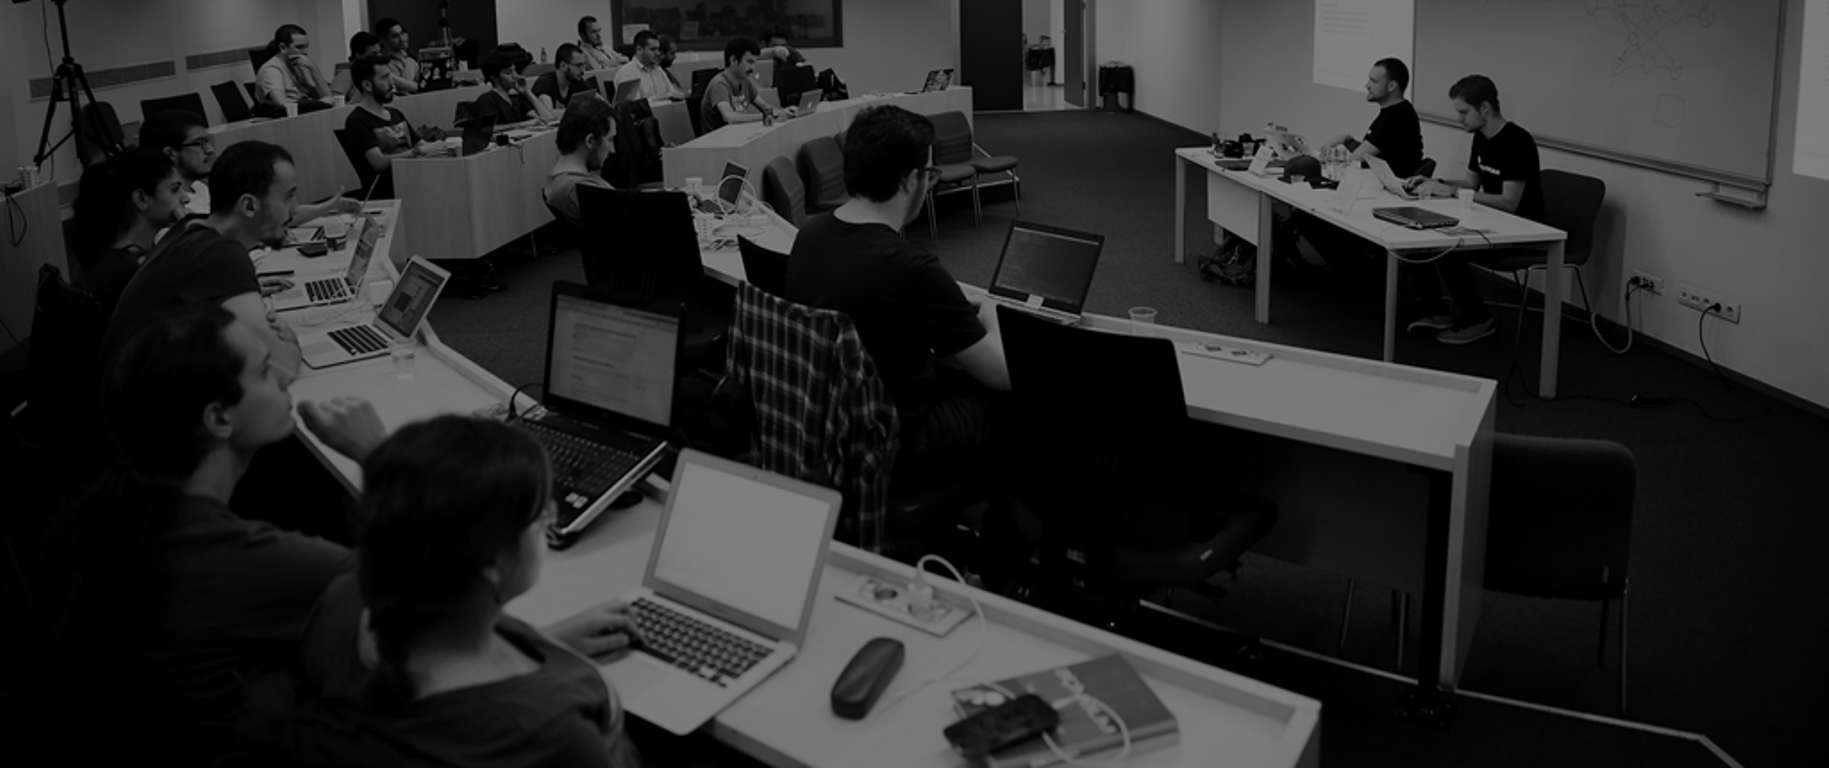
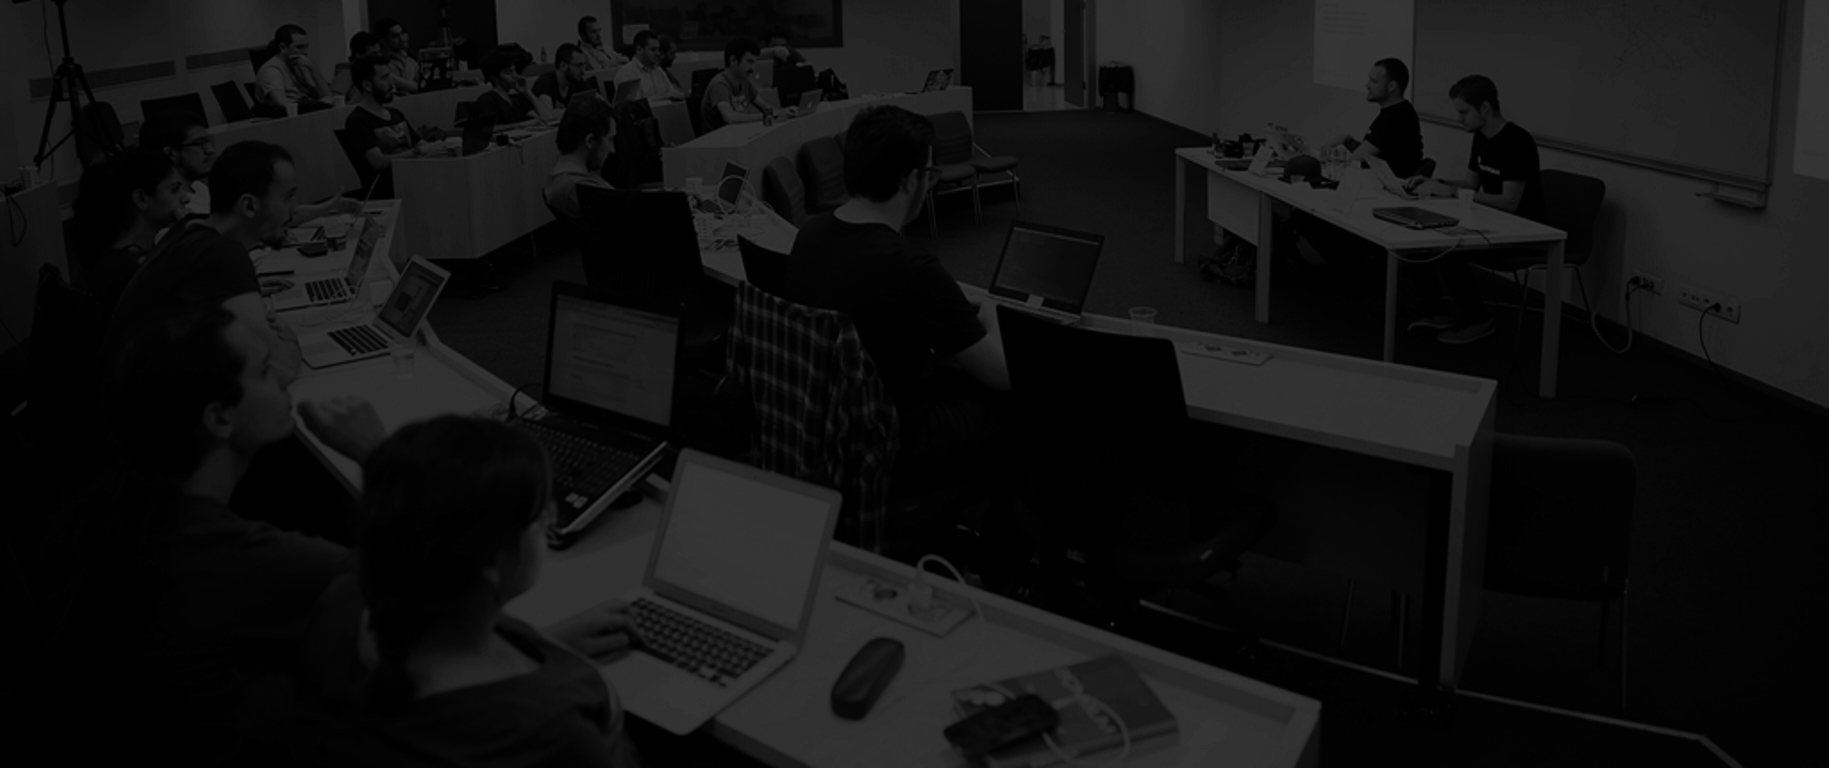
initial commit

diff --git a/partials/about.html b/partials/about.html
@@ -4,83 +4,108 @@
         <p>
             Hi, I'm Tarun Sharma.
         </p>
+
+
         <p>
-            I'm a Application Developer for Team Detroit and formerly a web applications developer for The University of Michigan and the Senior Developer at <a target="_blank" href="http://qltd.com">Q LTD</a>&nbsp;in Ann Arbor, MI. I also do freelance web design and development for projects that I find interesting, challenging or exciting, and give private training or consulting in various web topics. &nbsp;In 2012, I created <a target="_blank" href="http://www.youtube.com/user/LevelUpTuts/featured">Level Up Tuts</a>&nbsp;with web developer <a target="_blank" href="http://benschaaf.com/">Ben Schaaf</a>. With Level Up Tutorials I have taken our knowledge of web technologies to YouTube to provide free training to developers looking to learn something new. I've also created premium tutorial packages for <a target="_blank" href="https://www.packtpub.com/getting-started-with-magento/video">Packt Publishing</a>.
-        </p>
-        <p>
-            I also enjoy <a target="_blank" href="http://youtu.be/Zcoj4Zfj6_k?t=1m34s">bboying</a> also known as breakdancing, and have been dancing for over 8 years doing shows for professional NFL and NBA teams. I'm inspired by a hot cup of green tea, excellent music, and Shaw Bros. kung fu movies.
-        </p>
-        <p>
-            Please <a href="/#contact">contact me</a> if you would like to work on a project together, or just want to chat.
-        </p>
-    </div>
+            I'm J2EE Enterprise application developer ,working on Enterprise and open source Technologies
+            <a href="">J2EE web frameworks , Spring , Spring MVC , Struts, Hibernate, Web service Jax-WS, Jax-RS </a>and having experience of working Enterprise SOA architecture and different tools from IBM and Oracle. Currently working with JavaScript framework Angular Node js and exploring development of enterprise apps in Android. I am passionate MEAN- Full Stack Javascript developer using <a href="">MongoDB, ExpressJS, NodeJS, AngularJS <a/>and also doing mobile application development.
+        </a>
+    </p>
 
-        <div class="resume">
-            <span class="fakebuttons"></span>
+    <p>
+        I have taken our knowledge of web technologies to YouTube to provide free training to developers looking to learn something new. I've also created premium tutorial packages for <a target="_blank" href="">Packt Publishing</a>.
 
-            <div class="resume-inside">
+    </p>
+    
+       <p> <a href="">Early Life</a></p>
+                            <p>Born on August July 1990 and living with my family in Jaipur Rajasthan India </p>
+                            <p><a href="">School Days</a></p>
+                            <p>Attended preparatory, elementary, and high-school in a competitive school (MHS jaipur) then went to college at 
+                                the University SKIT Jaipur and graduated with Bachelor's Degree in Computer Science Engineering.</p>
+                               
+                                       <p> <a href="" class="list-group-item-heading">programming</a></p>
+                                        <p class="list-group-item-text">This passion actually drives me in many different directions. When i work for any development 
+                                            task it feels like i am going to build something smart and something different which is something new for this world , I am 
+                                            developer and passionate about learning latest technologies and also provide learning to others on different technologies</p>
+
+                                        <p href="#" class="list-group-item">
+                                            <p><a href="" class="list-group-item-heading">music</a>
+                                            <p class="list-group-item-text">It gives me fluid when i'm dehydrated by constant work, stress, and noisy environment. it also 
+                                                gives me way to express my self in a different way and in a different tone. i play guitar.</p>
+                                            </p>
+                                                              
+                     
+                            
+                                <p>
+                                    Please <a href="/#contact">contact me</a> if you would like to work on a project together, or just want to chat.
+                                </p>
+                            </div>
+
+                            <div class="resume">
+                                <span class="fakebuttons"></span>
+
+                                <div class="resume-inside">
 
 
-                <h3>/* --Resume-- */</h3>
+                                    <h3>/* --Resume-- */</h3>
 
-                <h4>/* SUMMARY OF QUALIFICATIONS */</h4>
-                <ul>
-                    <li>Received a Bachelors degree in the Fine Arts at the University of Michigan’s Media Arts program.</li>
-                    <li>Excellent organization, self-motivation, and problem-solving skills.</li>
-                    <li>Created and runs a popular Youtube coding education channel with over 700 videos, 8.5million views &amp; 85k subscribers.</li>
-                    <li>Creative, strong communication skills and consistently meets deadlines.</li>
-                    <li>Passionate about web development and new technologies.</li>
-                </ul>
+                                    <h4>/* SUMMARY OF QUALIFICATIONS */</h4>
+                                    <ul>
+                                        <li>Received a Bachelors degree in the computer science at the Technical University Rajasthan .</li>
+                                        <li>Excellent organization, self-motivation, and problem-solving skills.</li>
+                                        <li>Created and runs a popular Youtube coding education channel with over 700 videos, 8.5million views &amp; 85k subscribers.</li>
+                                        <li>Creative, strong communication skills and consistently meets deadlines.</li>
+                                        <li>Passionate about web development and new technologies.</li>
+                                    </ul>
 
-                <h4>/* Experience */</h4>
+                                    <h4>/* Experience */</h4>
 
-                <h5>// SENIOR FRONT-END DEVELOPER, Team Detroit - DEARBORN, MI</h5>
-                <span class="time">// MAY 2014 - PRESENT</span>
-                <ul>
-                    <li>Rapidly prototyped designs for the design process and user testing.</li>
-                    <li>Utilized AngularJS to build a component library for Ford.com Global Redesign.</li>
-                    <li>Met with Ford executives to display functionality of design experiments.</li>
-                    <li>Worked on a team of developers to coordinate and develop compoent library.</li>
-                    <li>Built resposive web applications to display potential design and interaction experiences.</li>
-                </ul>
+                                    <h5>// Application Developer UnitedhHealth Group Gurgaon</h5>
+                                    <span class="time">// Nov 2014 - PRESENT</span>
+                                    <ul>
+                                    <li>Supporting Front UI based on angular JS and front end Ajax Spring MVC calls.</li>
+                                        <li> Developing and supporting for the development of spring and Hibernate related backend work.</li>
+                                        <li> Worked on several web services being used in application for processing client request and processing them with MUEL ESB.</li>
+                                        <li>Rapidly prototyped designs for the design process and user testing.</li>
+                                        <li>Utilized AngularJS to build a component library for Ford.com Global Redesign.</li>
+                                        <li>Met with Ford executives to display functionality of design experiments.</li>
+                                        <li>Worked on a team of developers to coordinate and develop compoent library.</li>
+                                        <li>Built resposive web applications to display potential design and interaction experiences.</li>
+                                    </ul>
 
-                <h5>// OWNER, Level Up Tuts - ANN ARBOR, MI</h5>
-                <span class="time">// MARCH 2012 - PRESENT</span>
-                <ul>
-                    <li>Wrote, produced and recorded over 700 popular tutorial videos on various topics for Level Up Tuts (www.youtube.com/user/LevelUpTuts) with over 8,550,000 views.</li>
-                    <li>Designed websites, interfaces, and layouts to fit clients’ desires including developing responsive layouts to enhance the experience on mobile devices.</li>
-                    <li>Consulted on large scale development projects.</li>
-                    <li>Provided dedicated training on coding practices and content management systems.</li>
-                    <li>Wrote, produced and recorded commercial video tutorial series for Envato and Packt Publishing.</li>
-                </ul>
+                                    <h5>// Owner, Gnenext Training - Delhi India</h5>
+                                    <span class="time">// MARCH 2012 - PRESENT</span>
+                                    <ul>
+                                        <li>Wrote, produced and recorded over 300 popular tutorial videos on various topics for Level Up Tuts (https://www.youtube.com/channel/UCS1NeZF0Or2E1RAV9hQJz3g) with over 1,550,00 views.</li>
+                                        <li>Designed websites, interfaces, and layouts to fit clients’ desires including developing responsive layouts to enhance the experience on mobile devices.</li>
+                                        <li>Consulted on large scale development projects.</li>
+                                        <li>Provided dedicated training on coding practices and content management systems.</li>
+                                        <li>Wrote, produced and recorded commercial video tutorial series for Packt Publishing.</li>
+                                    </ul>
 
-                <h5>// WEB APPLICATIONS DEVELOPER, UM Creative - ANN ARBOR, MI</h5>
-                <span class="time">// OCT  2013 - MAY 2014</span>
-                <ul>
-                    <li>Developed single page applications using Angular.js or Backbone.js.</li>
-                    <li>Maintained and built websites for secure University servers.</li>
-                    <li>Took initiative on internal projects to advance direction of department.</li>
-                    <li>Tested and troubleshot slow application speeds as well as slow front end load times on existing websites.</li>
-                    <li>Built responsive, CMS based websites with rapid turnaround.</li>
-                </ul>
+                                    <h5>// Java Application Developer, Amdocs DVCI Delhi</h5>
+                                    <span class="time">// july 2012 - Nov 2014</span>
+                                    <ul>
+                                        <li>Supported enterprise application framework SOA based application running on web services</li>
+                                        <li>Developed and supported Fusion and MQ based Queue framework for supporting clients request and for Bill Load in IBM DB2 servers.</li>
+                                        <li>Worked with Business transaction processing in backend  Being Done with EJB-2.0.</li>
+                                        <li>Worked on several web services being used in application for processing client request which are based on JAX-RPC/WS and being used with asynchronous and synchronous request through MQ and ATT n T Fusion queues.</li>
+                                        <li>Worked with major release and took all responsibilities including communication with clients and provide them successful deployments.</li>
+                                    </ul>
 
-                <h5>// SENIOR DEVELOPER, Q LTD - ANN ARBOR, MI</h5>
-                <span class="time">// MARCH 2011 - OCT 2013</span>
-                <ul>
-                    <li>Built large, medium, and small scale websites from the ground up using appropriate content management systems (Drupal, Wordpress, Expression Engine, Magento).</li>
-                    <li>Utilized latest HTML5 and CSS3 technologies to build semantically correct and visually interesting responsive designs.</li>
-                    <li>Created interactive elements with custom JavaScript and Jquery.</li>
-                    <li>Worked frequently with clients to train, assist, and troubleshoot their websites.</li>
-                    <li>Used Sass, Compass, and Coffee Script to more effectively write clean, fast, and easy to read code.</li>
-                </ul>
+                                    <h5>// Application Developer, IBM Lab</h5>
+                                    <span class="time">// MARCH 2010 - july 2012</span>
+                                    <ul>
+                                        <li>Worked on developing Different project based on J2EE frameworks and technologies.</li>
+                                        <li>Worked on creating Java Web Application using JSF framework which can be used for any organization for biometric authentication/Card punch and different module related to employee attendance management </li>
+                                        <li>Developed “Ecops” , “Indian-Wildlife “project for TGMC IBM challenge during 2010-12 based on J2EE, JSF, JPA, DB2 server.</li>
+                                        <li>All application developed Using IBM Rational technologies with DB2 as DB serve</li>
+                                       
+                                    </ul>
 
-                <h4>/* EDUCATION */</h4>
-                <ul>
-                    <li>University of Michigan - Media Arts Bachelors of the Arts Spring 2008</li>
-                </ul>
-            </div>
-        </div>
-        <p class="res-download">
-            <a class="btn download" href="media/sharma.pdf">Download Resume PDF</a>
-        </p>
-    </main>
+                                </div>
+                            </div>
+                            <p class="res-download">
+                                <a class="btn download" href="media/sharma.pdf">Download Resume PDF</a>
+                            </p>
+                        </main>

diff --git a/partials/projects.html b/partials/projects.html
@@ -6,45 +6,52 @@
 
         <ul class="project-list">
             <li>
-                <h3 class="project-title"><a target="_blank" href="http://www.ford.com/">Ford.com Global UX</a></h3>
+                <h3 class="project-title"><a target="_blank" href="http://www.Allakarte.com/">Allakarte.com UX</a></h3>
                 <p>
-                    Design Prototypes and Interactive Digital Styleguide for the Ford.com Global Redesign:<br>
-                    Built With: Angular, Sass
+                    Design Prototypes and Interactive  Design for the Allakarte.com , its has same kind of business what airbnb  have.<br>
+                    Built With: Angular, Node Material design with responsive.
                 </p>
             </li>
             <li>
-                <h3 class="project-title"><a target="_blank" href="http://store.leveluptutorials.com/">Level Up Tutorials Store</a></h3>
+                <h3 class="project-title"><a target="_blank" href="">Integrated Eligibility Portal US-Health Care</a></h3>
                 <p>
-                    A Physical &amp; Digital Products Ecommerce Site for Level Up Tutorials:<br>
-                    Built With: Meteor, React, Stylus
+                    Developing Integrated Eligibility project for SE Region USA for Health care support for US citizen,Its integrated application to determine the Eligibility of citizen  for different Health care  program running for state government
+                     while working with <a target="_blank" href="">UnitedHealth Group</a><br>
+                     Client :-   <a target="_blank" href="">US State Government</a><br>
+                    Built With: Angular, Bootstrap ,Spring Hibernate.
+                </p>
+            </li>
+
+            <li><br/>
+                <h3 class="project-title"><a target="_blank" href="">Billing System BVA Project</a></h3>
+                <p>
+                    Developed and supported of CBS-Billing  Critical  ATT & T application for south East billing tool being used by more than 40,000 Customer care representative in South East Region USA while working with  <a target="_blank" href="">Amdocs India</a> <br> 
+                    Client :-   <a target="_blank" href="">At & t</a><br>
+                    Built With: Java Web Services, Java, J2EE 
+                </p>
+            </li>
+<li>
+                <h3 class="project-title"><a target="_blank" href="">Learning Portal</a></h3>
+                <p>Built for: <a target="_blank" href="">Amdocs DVCI </a><br>Built With: Java J2EE with Spring Hibernate </p>
+            </li>
+            <li>
+                <h3 class="project-title"><a target="_blank" href=""> Training Youtube Channel</a></h3>
+                <p>
+                    200+ Web Dev Tutorials on: <a target="_blank" href="https://www.youtube.com/channel/UCS1NeZF0Or2E1RAV9hQJz3g">Youtube</a><br>Channel for Front end development and java Technologies
                 </p>
             </li>
             <li>
-                <h3 class="project-title"><a target="_blank" href="http://leveluptuts.com/">Level Up Tutorials</a></h3>
-                <p>
-                    700+ Web Dev Tutorials on: <a target="_blank" href="https://www.youtube.com/channel/UCyU5wkjgQYGRB0hIHMwm2Sg">Youtube</a><br>Built With: Drupal 7, Omega 4, Sass/Compass/SingularityGS
-                </p>
+                <h3 class="project-title"><a target="_blank" href="http://gennexttrainng.com/">GneNext Training</a></h3>
+                <p>Built &amp; Designed for: Training<br>Gennext Training is Now growing in online learning for professional software developers, IT specialists, and creative technologists.
+
+                Together, our goal is to democratize professional learning, making it more accessible to those around the world. As we grow, we will continue to seek those opportunities that will foster this cause and empower individuals and enterprises to truly embrace a culture of learning</p>
             </li>
             <li>
-                <h3 class="project-title"><a target="_blank" href="http://materialcolors.com/">Material Colors</a></h3>
-                <p>Built &amp; Designed for: Fun<br>Built With: Angular.js, Polymer, Sass</p>
+                <h3 class="project-title"><a target="_blank" href="http://qltd.com/">IBM Lab</a></h3>
+                <p>Built for: <a target="_blank" href="">Academics App</a><br>Built With: Java J2EE with Enterprise IBM tools</p>
             </li>
-            <li>
-                <h3 class="project-title"><a target="_blank" href="http://qltd.com/">Q LTD</a></h3>
-                <p>Built for: <a target="_blank" href="http://qltd.com">Q LTD</a><br>Built With: Node.js, Express, MongoDB, Sass/Compass/Susy</p>
-            </li>
-            <li>
-                <h3 class="project-title"><a target="_blank" href="http://www.siggraph.org/">ACM SIGGRAPH</a></h3>
-                <p>Built for: <a target="_blank" href="http://qltd.com">Q LTD</a><br>Built With: Drupal 7, Omega 3, Sass/Compass</p>
-            </li>
-            <li>
-                <h3 class="project-title"><a target="_blank" href="http://factory.umichcreative.org/">Operations Leadership Factory</a></h3>
-                <p>Built for: <a target="_blank" href="http://creative.umich.edu/">Michigan Creative</a><br>Built With: Drupal 7, Omega 4, Sass/Compass/SingularityGS</p>
-            </li>
-            <li>
-                <h3 class="project-title"><a target="_blank" href="http://www.concrete.org/">Concrete.org</a></h3>
-                <p>Built for: <a target="_blank" href="http://qltd.com">Q LTD</a><br>Built Templates With: HTML5, CSS3, JavaScript</p>
-            </li>
+            
+           
         </ul>
     </main>
     </div>

diff --git a/css/main.css b/css/main.css
@@ -634,7 +634,7 @@ p {
 }
 
 body {
-    background: #333;
+    background: #000;
     color: #fff;
         background-image: url("../media/banner.jpg");
     background-repeat: no-repeat;
